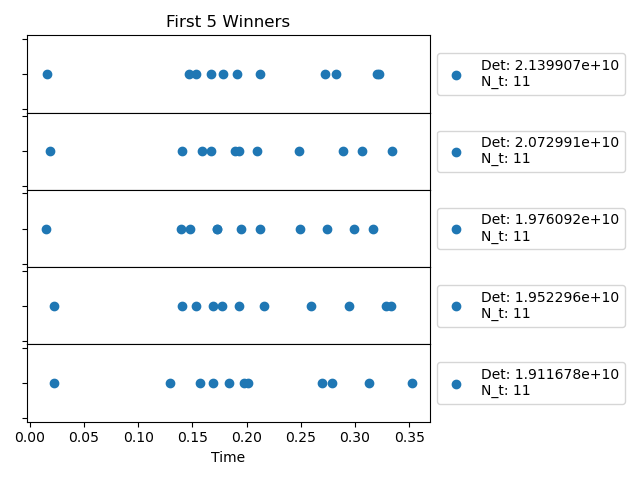
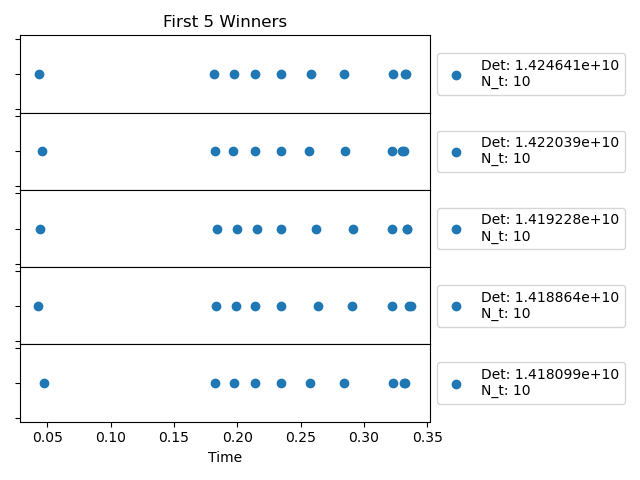
changed parameter such that nice convergence can be observed.

diff --git a/growth_model.py b/growth_model.py
@@ -160,7 +160,7 @@ if __name__ == "__main__":
 
     # How many points of time should be sampled at maximum? (Starting at 1)
     N_t_min = 2
-    N_t_max = 12
+    N_t_max = 11
     # How many times should the random sampling take a sample of (eg. 3) time points
     N_t_mult = 20
     # Final result should look like this:
@@ -172,7 +172,7 @@ if __name__ == "__main__":
     many_sample_times = [np.sort(np.random.uniform(low=t0, high=tmax, size=n)) for n in range(N_t_min, N_t_max) for j in range(N_t_mult)]
     
     # How many optimization runs are we doing?
-    N_opt = 10
+    N_opt = 30
     # How many best results are we picking
     N_best = 5
     # How many new results are we generating from the chosen ones
